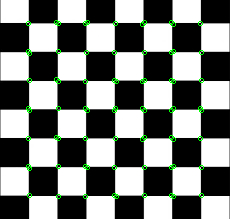
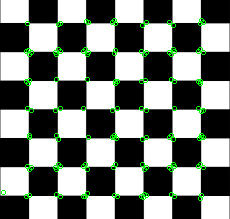
fix harris bug

diff --git a/image processing/code/HarrisCorner/HarrisCorner.cpp b/image processing/code/HarrisCorner/HarrisCorner.cpp
@@ -3,6 +3,7 @@
 #include "Gaussian/Gaussian.h"
 #include "SepFilter2D/SepFilter2D.h"
 #include "Sobel/Sobel.h"
+#include "BoxFilter/BoxFilter.h"
 
 namespace qlm
 {
@@ -39,21 +40,15 @@ namespace qlm
 				Iyy.SetPixel(x, y, Iy * Iy);
 			}
 		}
-		// sum on block size
-		SepKernel box{ block_size , block_size };
-		for (int i = 0; i < block_size; i++)
-		{
-			box.x_ker.Set(i, 1.0f / block_size);
-			box.y_ker.Set(i, 1.0f / block_size);
-		}
 
+		// sum on block size
 		BorderMode<ImageFormat::GRAY, int16_t> border_mode_16{};
 		border_mode_16.border_type = border_mode.border_type;
 		border_mode_16.border_pixel = border_mode.border_pixel;
 
-		Image<ImageFormat::GRAY, int16_t> Ixx_sum = SepFilter2D<ImageFormat::GRAY, int16_t, int16_t>(Ixx, box, border_mode_16);
-		Image<ImageFormat::GRAY, int16_t> Iyy_sum = SepFilter2D<ImageFormat::GRAY, int16_t, int16_t>(Iyy, box, border_mode_16);
-		Image<ImageFormat::GRAY, int16_t> Ixy_sum = SepFilter2D<ImageFormat::GRAY, int16_t, int16_t>(Ixy, box, border_mode_16);
+		Image<ImageFormat::GRAY, int16_t> Ixx_sum = BoxFilter<ImageFormat::GRAY, int16_t, int16_t>(Ixx, block_size, block_size, false, border_mode_16);
+		Image<ImageFormat::GRAY, int16_t> Iyy_sum = BoxFilter<ImageFormat::GRAY, int16_t, int16_t>(Iyy, block_size, block_size, false, border_mode_16);
+		Image<ImageFormat::GRAY, int16_t> Ixy_sum = BoxFilter<ImageFormat::GRAY, int16_t, int16_t>(Ixy, block_size, block_size, false, border_mode_16);
 
 		Image<ImageFormat::GRAY, float> corners_response{ width, height };
 		// compute R

diff --git a/image processing/doc/Examples/Features Detection/HarrisCorner/README.md b/image processing/doc/Examples/Features Detection/HarrisCorner/README.md
@@ -3,48 +3,48 @@
 
 ```c++
     qlm::Timer<qlm::msec> t{};
-	std::string file_name = "input.png";
-	// load the image
-	qlm::Image<qlm::ImageFormat::RGB, uint8_t> in;
-	if (!in.LoadFromFile(file_name))
-	{
-		std::cout << "Failed to read the image\n";
-		return -1;
-	}
-	// check alpha component
-	bool alpha{ true };
-	if (in.NumerOfChannels() == 3)
-		alpha = false;
+    std::string file_name = "input.png";
+    // load the image
+    qlm::Image<qlm::ImageFormat::RGB, uint8_t> in;
+    if (!in.LoadFromFile(file_name))
+    {
+        std::cout << "Failed to read the image\n";
+        return -1;
+    }
+    // check alpha component
+    bool alpha{ true };
+    if (in.NumerOfChannels() == 3)
+        alpha = false;
 
-	auto gray = qlm::ColorConvert< qlm::ImageFormat::RGB, uint8_t, qlm::ImageFormat::GRAY, uint8_t>(in);
+    auto gray = qlm::ColorConvert< qlm::ImageFormat::RGB, uint8_t, qlm::ImageFormat::GRAY, uint8_t>(in);
 
-	unsigned int filter_size = 3;
-	unsigned int block_size = 3;
-	float k = 0.22;
-	float threshold = 0.0000001;
+    unsigned int filter_size = 3;
+    unsigned int block_size = 3;
+    float k = 0.22;
+    float threshold = 0.0000001;
 
-	// do the operation
-	t.start();
-	auto out = qlm::HarrisCorner(gray, block_size, filter_size, k, threshold);
-	t.end();
+    // do the operation
+    t.start();
+    auto out = qlm::HarrisCorner(gray, block_size, filter_size, k, threshold);
+    t.end();
 
-	t.show();
+    t.show();
 
-	// draw corners
-	qlm::Circle<int> circle = { .radius = 2 };
-	qlm::Pixel <qlm::ImageFormat::RGB, uint8_t> green{ 0, 255, 0 };
+    // draw corners
+    qlm::Circle<int> circle = { .radius = 2 };
+    qlm::Pixel <qlm::ImageFormat::RGB, uint8_t> green{ 0, 255, 0 };
 
-	for (auto& i : out)
-	{
-		circle.center = i.point;
-		in = qlm::DrawCircle(in, circle, green);
-	}
+    for (auto& i : out)
+    {
+        circle.center = i.point;
+        in = qlm::DrawCircle(in, circle, green);
+    }
 
 
-	if (!in.SaveToFile("result.jpg", alpha))
-	{
-		std::cout << "Failed to write \n";
-	}
+    if (!in.SaveToFile("result.jpg", alpha))
+    {
+        std::cout << "Failed to write \n";
+    }
 ```
 
 ### The input
